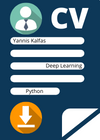
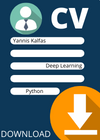
changed cv button

Changed region(s): [[0.09, 0.6, 1.0, 1.0], [0.0, 0.9143, 0.09, 1.0], [0.09, 0.9714, 0.12, 1.0]]

diff --git a/index.html b/index.html
@@ -69,7 +69,7 @@
 							</header>
 
 							<footer>
-								<a href="https://github.com/kalfasyan/kalfasyan/raw/main/docs/ioannisKalfasCV.pdf" class="image"><img src="images/cv.png" alt="" width="150" height="150"/></a>
+								<a href="https://github.com/kalfasyan/kalfasyan/raw/main/docs/ioannisKalfasCV.pdf" class="image"><img src="images/cv.png" alt="" width="150" height="170"/></a>
 							</footer>
 
 						</div>
